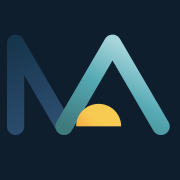
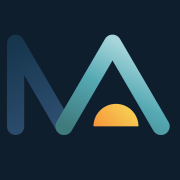
Corrige la posición del sol en el símbolo MA (SVG definitivo del cliente)
El sol pasa de estar centrado en el valle a estar bajo el segundo pico
(desplazado ~50px a la derecha), tal y como especifica
MAbroad_symbol_only_corrected.svg. Regenerados favicon (SVG/ICO/PNGs) y
og-image.png con la geometría exacta.

Changed region(s): [[0.4167, 0.5556, 0.7778, 0.7222]]

diff --git a/src/components/Layout.jsx b/src/components/Layout.jsx
@@ -16,7 +16,9 @@ import ThemeToggle, { ThemeToggleRow } from "./ThemeToggle";
 // repasado en un degradado distinto para lograr el efecto bitono, y el sol
 // como semicírculo apoyado en la línea base entre las dos montañas.
 // El icono nunca se recolorea — mismos degradados siempre, independientemente
-// del modo claro/oscuro o del fondo del navbar. Fuente: MAbroad_symbol_only.svg
+// del modo claro/oscuro o del fondo del navbar.
+// Fuente: MAbroad_symbol_only_corrected.svg (sol desplazado a la derecha,
+// bajo el segundo pico, en vez de centrado en el valle).
 export function MASymbol({ size = 28 }) {
   // Un solo símbolo puede aparecer varias veces en la misma página (navbar +
   // footer, por ejemplo) — cada instancia necesita sus propios ids de
@@ -37,7 +39,7 @@ export function MASymbol({ size = 28 }) {
           <stop offset="0.55" stopColor="#55A9B3" />
           <stop offset="1" stopColor="#A6D5DB" />
         </linearGradient>
-        <linearGradient id={sunId} x1="155" y1="285" x2="225" y2="215" gradientUnits="userSpaceOnUse">
+        <linearGradient id={sunId} x1="275" y1="285" x2="345" y2="215" gradientUnits="userSpaceOnUse">
           <stop offset="0" stopColor="#F5963A" />
           <stop offset="1" stopColor="#F7CA52" />
         </linearGradient>
@@ -58,7 +60,7 @@ export function MASymbol({ size = 28 }) {
         strokeLinejoin="round"
         fill="none"
       />
-      <path d="M220 285 A65 65 0 0 1 350 285 Z" fill={`url(#${sunId})`} />
+      <path d="M270 285 A65 65 0 0 1 400 285 Z" fill={`url(#${sunId})`} />
     </svg>
   );
 }
